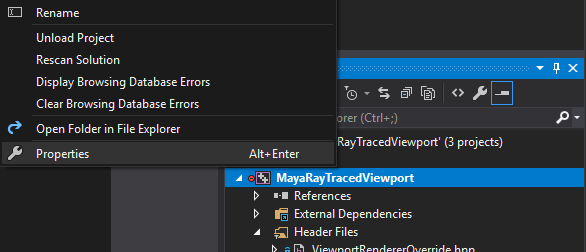
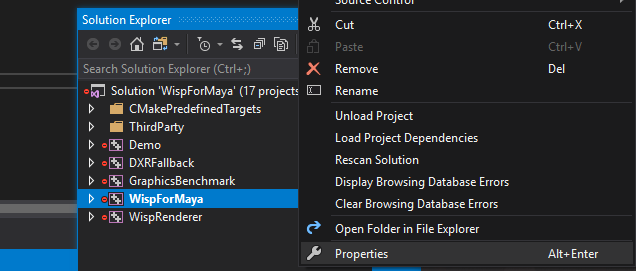
[UPDATE] Images [UPDATE] Read me title

diff --git a/README.md b/README.md
@@ -1,9 +1,9 @@
-# Maya-Ray-Traced-Viewport-Plugin
+# Wisp For Maya
 Bringing real-time ray-tracing to the Maya viewport using the [Wisp real-time ray-tracing library](https://github.com/TeamWisp/WispRenderer).
 
 # Table of contents
 
-- [Maya-Ray-Traced-Viewport-Plugin](#maya-ray-traced-viewport-plugin)
+- [Wisp For Maya](#wisp-for-maya)
 - [Table of contents](#table-of-contents)
 - [Installation](#installation)
     - [1. Download](#1-download)
